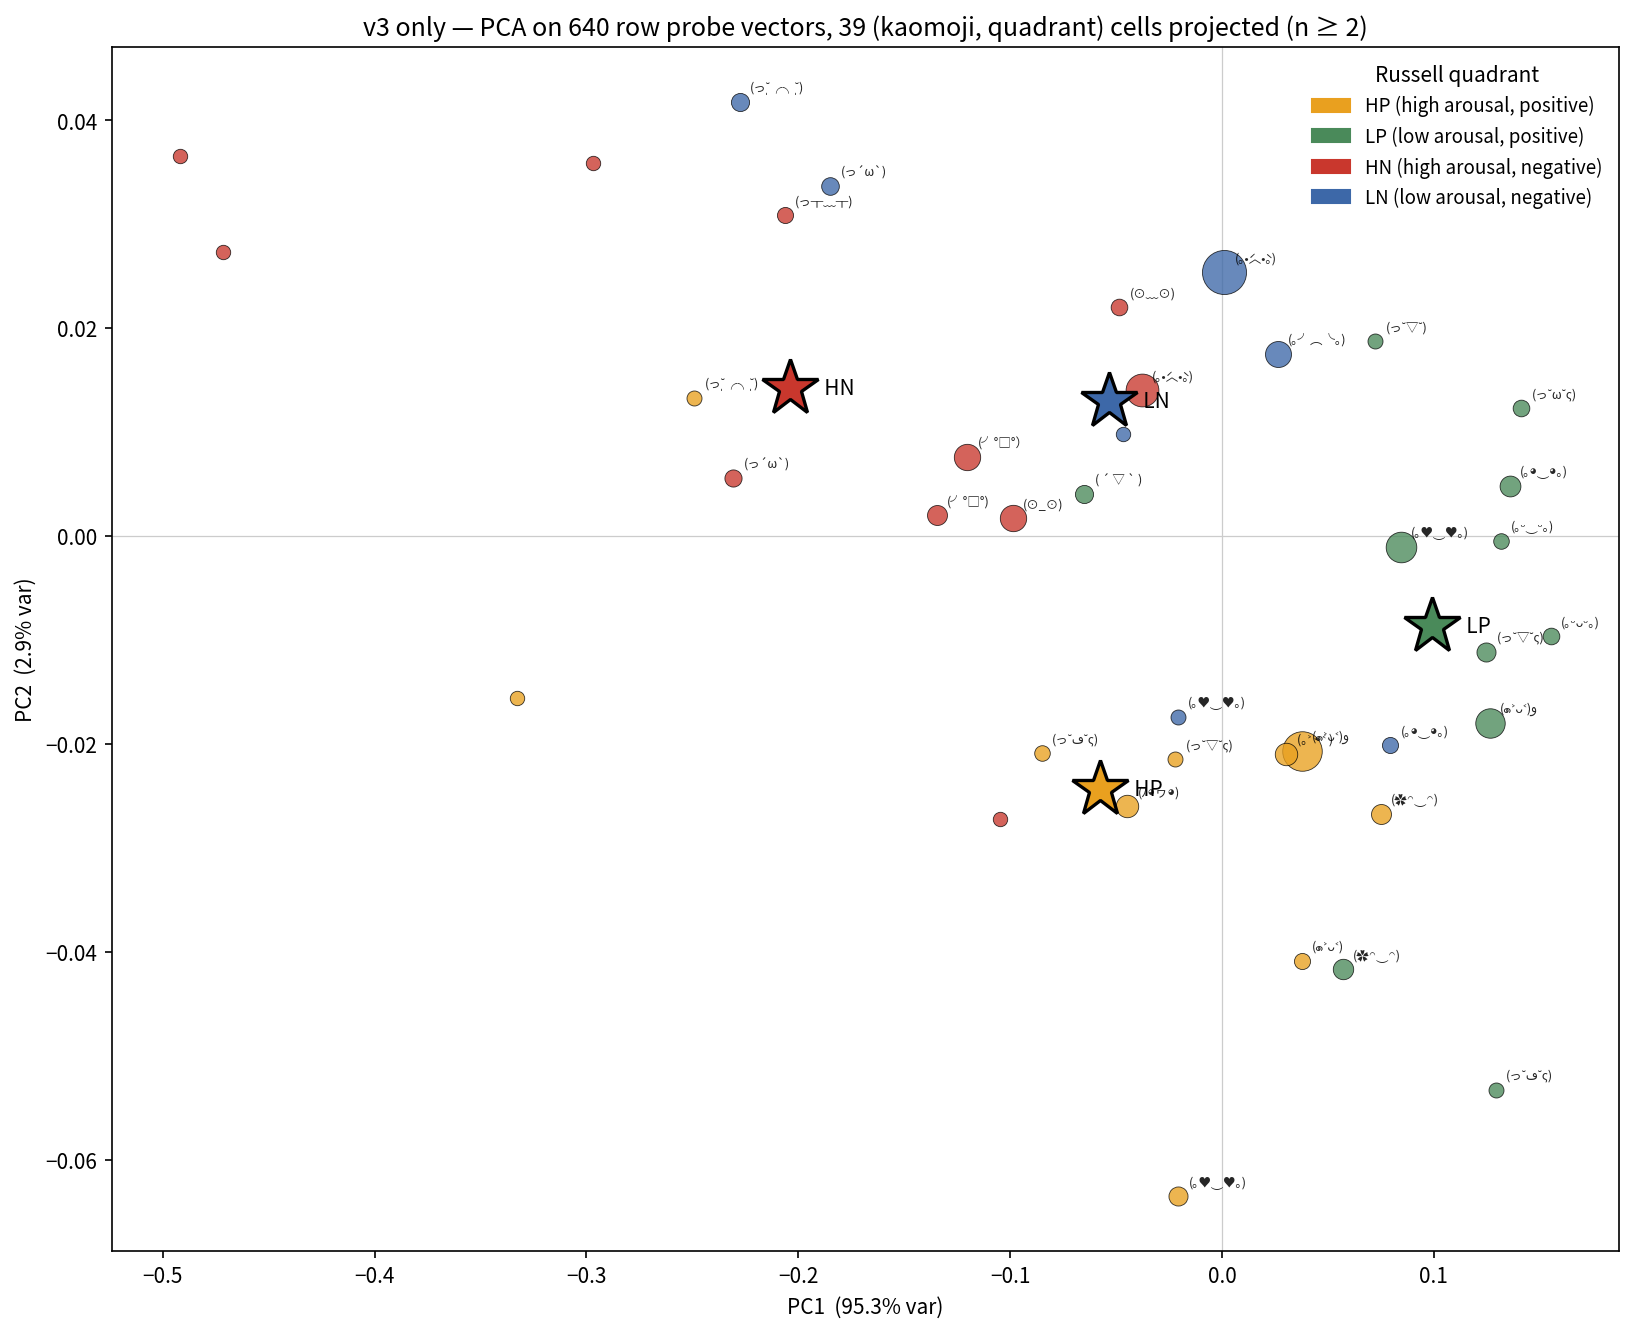
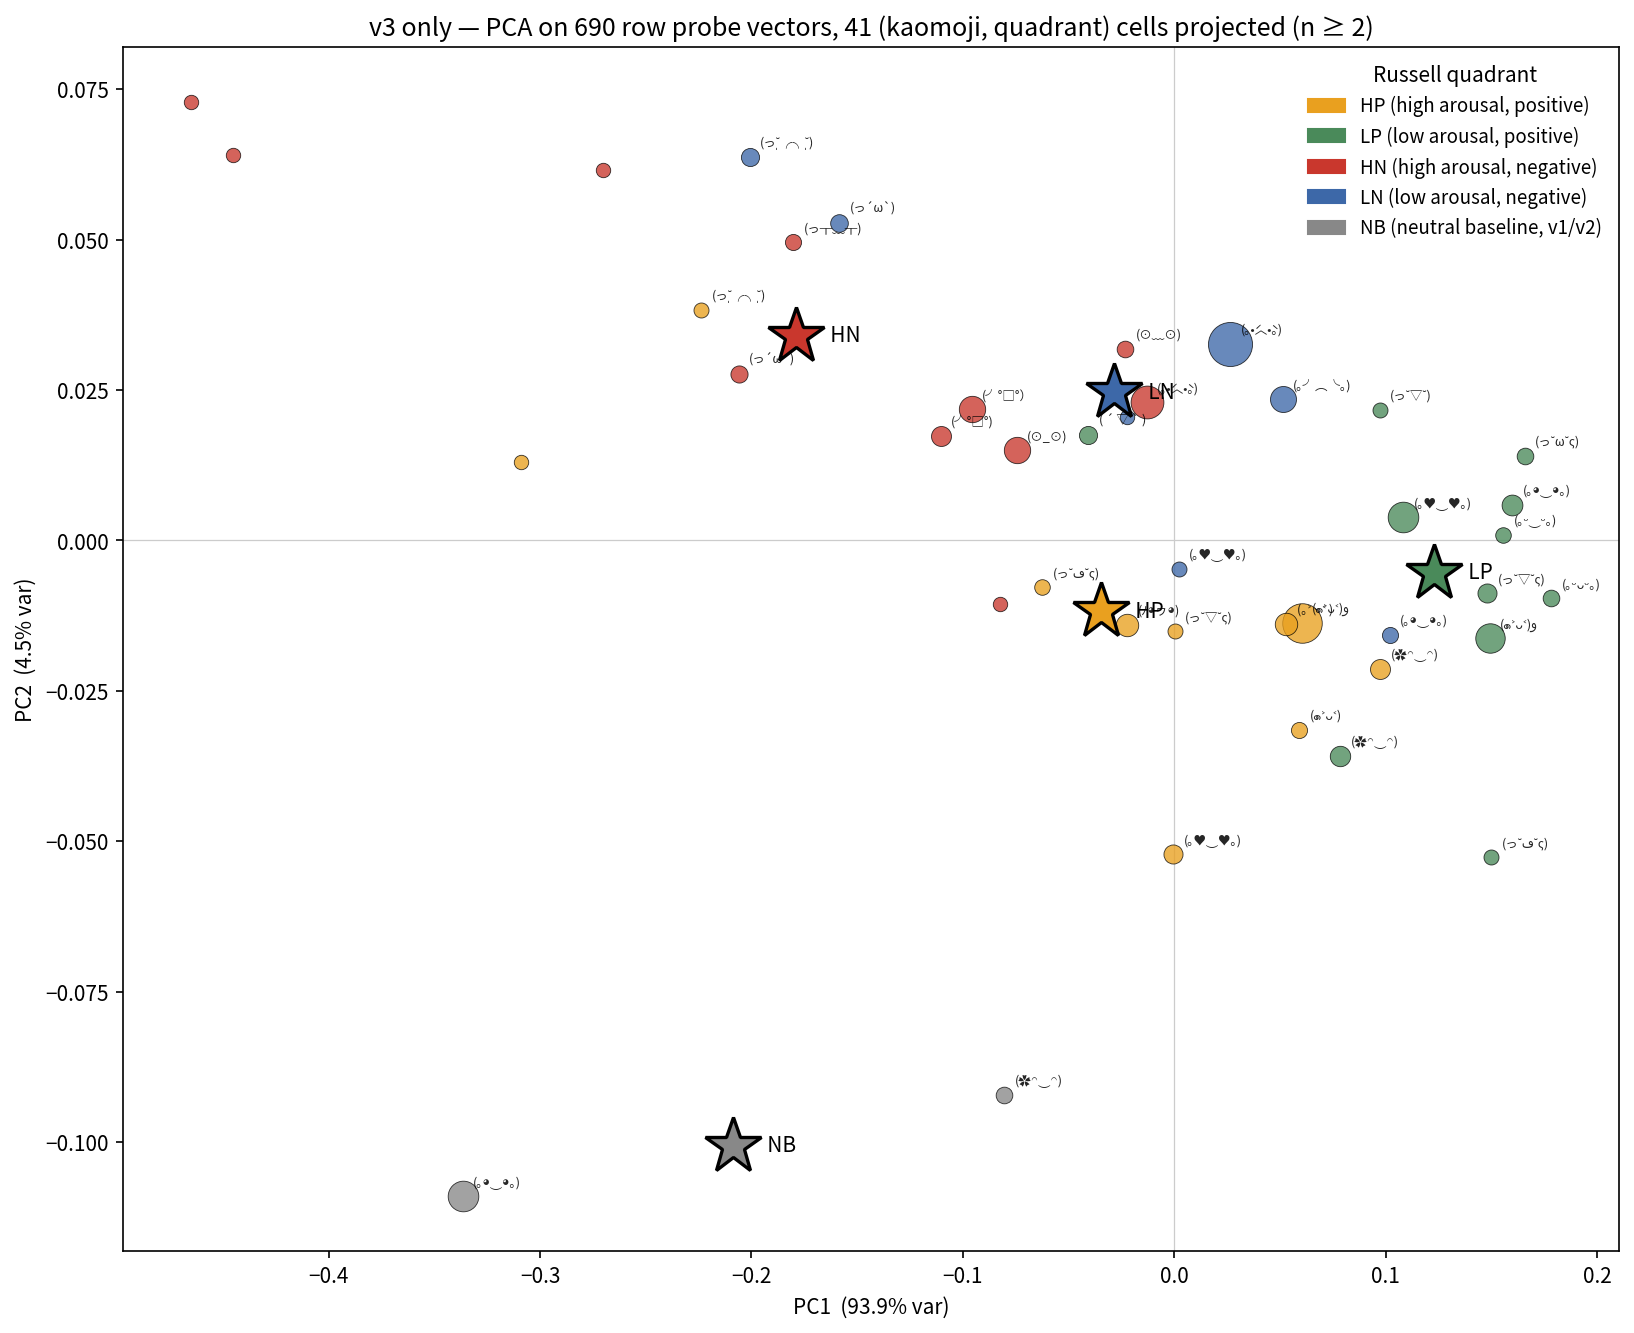
v3 PCA: add v1/v2 neutral-valence baseline + separation metric
load_v1v2_neutral_baseline pulls the 50 kaomoji_prompted rows with
prompt_valence==0 (factual prompts like "capital of Portugal") and
tags them quadrant=NB. plot_v3_pca_valence_arousal accepts an
optional baseline_df; when provided, PCA is fit on combined pool
(640 v3 + 50 NB = 690 rows) and NB plots as a 5th gray category.

Also returns/prints between-centroid std ÷ mean-within-quadrant std
per PC axis as a separation-quality readout. Correcting my earlier
read of the v3-only PCA: on PC2 the ratio is 2.30, which is clean
separation; on PC1 it's 1.05, which is borderline. The visual
separation is real once within-quadrant scatter is accounted for.

Key finding from adding NB: NB centroid lands at PC2 = -0.101, far
below all v3 quadrants (range -0.012 to +0.034). The dominant axis
of separation is emotional-content-vs-neutral-content on PC2, not
valence on PC1. Within emotional content, PC2 does split negatives
above positives (valence residual).

PC1/PC2 centroids with neutral baseline included:
  HP: (-0.035, -0.012)   |  within std (0.125, 0.023)
  LP: (+0.123, -0.005)   |  (0.060, 0.022)
  HN: (-0.179, +0.034)   |  (0.149, 0.024)
  LN: (-0.029, +0.025)   |  (0.103, 0.026)
  NB: (-0.209, -0.101)   |  (0.128, 0.008)

diff --git a/llmoji/emotional_analysis.py b/llmoji/emotional_analysis.py
@@ -614,14 +614,43 @@ def plot_probe_correlation_matrix(
     plt.close(fig)
 
 
+def load_v1v2_neutral_baseline(path: str) -> pd.DataFrame:
+    """Load v1/v2 kaomoji_prompted rows with neutral-valence prompts —
+    the natural neutral baseline for the v3 PCA. 10 prompts × 5 seeds =
+    50 rows. Explodes probe_scores_t0 into per-probe columns and adds
+    a ``quadrant`` column = 'NB' so the data slots into the same
+    plotting path as v3 rows."""
+    from .config import PROBES
+    df: pd.DataFrame = pd.read_json(path, lines=True)
+    sub = df[
+        (df["condition"] == "kaomoji_prompted")
+        & (df["prompt_valence"] == 0)
+    ].copy()
+    stacked = np.asarray(sub["probe_scores_t0"].tolist(), dtype=float)
+    for i, probe in enumerate(PROBES):
+        sub[f"t0_{probe}"] = stacked[:, i]
+    # pilot_raw has no probe_scores_tlast — mirror t0 so both timesteps
+    # are populated (both are the whole-generation aggregate anyway).
+    for i, probe in enumerate(PROBES):
+        sub[f"tlast_{probe}"] = stacked[:, i]
+    sub["quadrant"] = "NB"
+    return sub
+
+
 def plot_v3_pca_valence_arousal(
     df: pd.DataFrame, out_path: str, *,
     min_per_cell: int = 2, timestep: str = "t0",
+    baseline_df: "pd.DataFrame | None" = None,
 ) -> dict[str, Any]:
-    """PCA on v3-only row probe vectors; project per-(kaomoji, quadrant)
-    means through the fitted axes; plot a single scatter with all four
-    Russell quadrants distinct-colored (circumplex-adjacent palette:
-    HP yellow-orange, LP green, HN red, LN blue).
+    """PCA on v3 row probe vectors (plus optional neutral baseline);
+    project per-(kaomoji, source) means through the fitted axes; plot
+    a single scatter with Russell quadrants distinct-colored and the
+    neutral baseline as a 5th gray category.
+
+    Pass ``baseline_df`` (from ``load_v1v2_neutral_baseline``) to
+    include v1/v2 neutral-valence kaomoji_prompted rows as a comparator.
+    When supplied, PCA is fit on the COMBINED pool so the axes reflect
+    all plotted data.
 
     Fitting on all rows rather than on per-cell means preserves all
     naturalistic-regime variance in the PC axes. Projecting the cell
@@ -640,7 +669,13 @@ def plot_v3_pca_valence_arousal(
 
     _use_cjk_font()
 
-    sub = _kaomoji_rows(df, timestep=timestep)
+    sub_v3 = _kaomoji_rows(df, timestep=timestep)
+    if baseline_df is not None:
+        sub_nb = _kaomoji_rows(baseline_df, timestep=timestep)
+        sub = pd.concat([sub_v3, sub_nb], ignore_index=True)
+    else:
+        sub = sub_v3
+
     if len(sub) == 0:
         print(f"  [v3 PCA VA] no kaomoji rows; skipping")
         return {}
@@ -654,7 +689,8 @@ def plot_v3_pca_valence_arousal(
     pca.fit(X_rows)
     var = pca.explained_variance_ratio_
 
-    # Per-(kaomoji, quadrant) means with min_per_cell filter.
+    # Per-(kaomoji, quadrant) means with min_per_cell filter. 'quadrant'
+    # here takes values HP/LP/HN/LN for v3 rows and 'NB' for baseline.
     groups: list[tuple[str, str, np.ndarray, int]] = []
     for key, g in sub.groupby(["first_word", "quadrant"]):
         km, q = key  # type: ignore[misc]
@@ -672,12 +708,13 @@ def plot_v3_pca_valence_arousal(
     # Russell-circumplex-adjacent palette: warm hues for high-arousal
     # quadrants, cool for low-arousal; yellow/orange positive valence,
     # red/blue negative valence (red=HN keeps the conventional
-    # anger-red association).
+    # anger-red association). NB = neutral baseline in gray.
     quadrant_color = {
         "HP": "#e9a01f",   # bright orange — excited positive
         "LP": "#4a8a5a",   # green — serene positive
         "HN": "#c9372d",   # red — agitated negative
         "LN": "#3d68a8",   # blue — sad negative
+        "NB": "#888888",   # neutral gray — v1/v2 neutral-valence baseline
     }
 
     fig, ax = plt.subplots(figsize=(11, 9))
@@ -693,7 +730,8 @@ def plot_v3_pca_valence_arousal(
                         xytext=(5, 5), textcoords="offset points", zorder=4)
 
     # Per-quadrant centroid stars.
-    for q_name in ("HP", "LP", "HN", "LN"):
+    all_quads = ("HP", "LP", "HN", "LN", "NB")
+    for q_name in all_quads:
         mask = np.array([g[1] == q_name for g in groups])
         if not mask.any():
             continue
@@ -717,12 +755,16 @@ def plot_v3_pca_valence_arousal(
         f"(n ≥ {min_per_cell})"
     )
 
-    legend_handles = [
-        Patch(color=quadrant_color["HP"], label="HP (high arousal, positive)"),
-        Patch(color=quadrant_color["LP"], label="LP (low arousal, positive)"),
-        Patch(color=quadrant_color["HN"], label="HN (high arousal, negative)"),
-        Patch(color=quadrant_color["LN"], label="LN (low arousal, negative)"),
+    legend_labels = [
+        ("HP", "HP (high arousal, positive)"),
+        ("LP", "LP (low arousal, positive)"),
+        ("HN", "HN (high arousal, negative)"),
+        ("LN", "LN (low arousal, negative)"),
     ]
+    if any(g[1] == "NB" for g in groups):
+        legend_labels.append(("NB", "NB (neutral baseline, v1/v2)"))
+    legend_handles = [Patch(color=quadrant_color[k], label=lbl)
+                      for k, lbl in legend_labels]
     ax.legend(handles=legend_handles, loc="best", frameon=False,
               fontsize=9, title="Russell quadrant")
 
@@ -730,12 +772,27 @@ def plot_v3_pca_valence_arousal(
     fig.savefig(out_path, dpi=150, bbox_inches="tight")
     plt.close(fig)
 
-    # Per-quadrant centroid coords for caller logging.
+    # Per-quadrant centroid coords + within-quadrant spread (std over
+    # projected PC1/PC2) for caller logging. The ratio of between-
+    # centroid spread to within-quadrant std is the signal-to-noise
+    # the viewer reads from the scatter.
     centroids: dict[str, list[float]] = {}
-    for q_name in ("HP", "LP", "HN", "LN"):
+    within_std: dict[str, list[float]] = {}
+    for q_name in all_quads:
         mask = np.array([g[1] == q_name for g in groups])
-        if mask.any():
-            centroids[q_name] = coords[mask].mean(axis=0)[:2].tolist()
+        if not mask.any():
+            continue
+        sub_coords = coords[mask][:, :2]
+        centroids[q_name] = sub_coords.mean(axis=0).tolist()
+        if mask.sum() > 1:
+            within_std[q_name] = sub_coords.std(axis=0, ddof=0).tolist()
+        else:
+            within_std[q_name] = [0.0, 0.0]
+
+    # Between-centroid stds on PC1 and PC2 across the quadrants we have.
+    centroid_arr = np.array([centroids[q] for q in centroids])
+    between_std_pc1 = float(centroid_arr[:, 0].std(ddof=0))
+    between_std_pc2 = float(centroid_arr[:, 1].std(ddof=0))
 
     return {
         "n_rows_fit": int(len(sub)),
@@ -744,6 +801,9 @@ def plot_v3_pca_valence_arousal(
         "components": pca.components_.tolist(),
         "probes": list(PROBES),
         "quadrant_centroids_pc12": centroids,
+        "within_quadrant_std_pc12": within_std,
+        "between_centroid_std_pc1": between_std_pc1,
+        "between_centroid_std_pc2": between_std_pc2,
     }
 
 

diff --git a/scripts/13_emotional_pca_valence_arousal.py b/scripts/13_emotional_pca_valence_arousal.py
@@ -13,9 +13,15 @@ from pathlib import Path
 
 sys.path.insert(0, str(Path(__file__).resolve().parent.parent))
 
-from llmoji.config import EMOTIONAL_DATA_PATH, FIGURES_DIR, PROBES
+from llmoji.config import (
+    EMOTIONAL_DATA_PATH,
+    FIGURES_DIR,
+    PILOT_RAW_PATH,
+    PROBES,
+)
 from llmoji.emotional_analysis import (
     load_rows,
+    load_v1v2_neutral_baseline,
     plot_v3_pca_valence_arousal,
 )
 
@@ -28,9 +34,16 @@ def main() -> None:
     df = load_rows(str(EMOTIONAL_DATA_PATH))
     print(f"loaded {len(df)} v3 rows")
 
+    baseline = None
+    if PILOT_RAW_PATH.exists():
+        baseline = load_v1v2_neutral_baseline(str(PILOT_RAW_PATH))
+        print(f"loaded {len(baseline)} v1/v2 kaomoji_prompted neutral-valence rows")
+    else:
+        print(f"(no pilot_raw at {PILOT_RAW_PATH}; skipping neutral baseline)")
+
     FIGURES_DIR.mkdir(parents=True, exist_ok=True)
     fig_path = FIGURES_DIR / "fig_v3_pca_valence_arousal.png"
-    stats = plot_v3_pca_valence_arousal(df, str(fig_path))
+    stats = plot_v3_pca_valence_arousal(df, str(fig_path), baseline_df=baseline)
     print(f"\nwrote {fig_path}")
     print(f"fit PCA on {stats.get('n_rows_fit')} rows; "
           f"plotted {stats.get('n_cells_plotted')} (kaomoji, quadrant) cells")
@@ -49,12 +62,31 @@ def main() -> None:
             print(f"  {name:>22}  {load:+.3f}")
 
     centroids = stats.get("quadrant_centroids_pc12") or {}
+    within = stats.get("within_quadrant_std_pc12") or {}
+    between_pc1 = stats.get("between_centroid_std_pc1", 0.0)
+    between_pc2 = stats.get("between_centroid_std_pc2", 0.0)
+
     if centroids:
-        print("\nper-quadrant centroid (PC1, PC2):")
-        for q in ("HP", "LP", "HN", "LN"):
+        print("\nper-quadrant centroid (PC1, PC2)  |  within-quadrant std (PC1, PC2):")
+        for q in ("HP", "LP", "HN", "LN", "NB"):
             if q in centroids:
                 pc1, pc2 = centroids[q]
-                print(f"  {q}:  ({pc1:+.3f}, {pc2:+.3f})")
+                s1, s2 = within.get(q, [0.0, 0.0])
+                print(f"  {q}:  ({pc1:+.3f}, {pc2:+.3f})   "
+                      f"|  ({s1:.3f}, {s2:.3f})")
+
+        # Separation quality: between-centroid spread divided by mean
+        # within-quadrant spread. >1 = between-centroid is bigger than
+        # the typical within-quadrant scatter = clean separation.
+        mean_within_pc1 = sum(v[0] for v in within.values()) / max(1, len(within))
+        mean_within_pc2 = sum(v[1] for v in within.values()) / max(1, len(within))
+        print(f"\nseparation ratio (between-centroid std / mean within-quadrant std):")
+        if mean_within_pc1 > 0:
+            print(f"  PC1: {between_pc1 / mean_within_pc1:.2f}  "
+                  f"(between {between_pc1:.3f}, mean within {mean_within_pc1:.3f})")
+        if mean_within_pc2 > 0:
+            print(f"  PC2: {between_pc2 / mean_within_pc2:.2f}  "
+                  f"(between {between_pc2:.3f}, mean within {mean_within_pc2:.3f})")
 
 
 if __name__ == "__main__":
